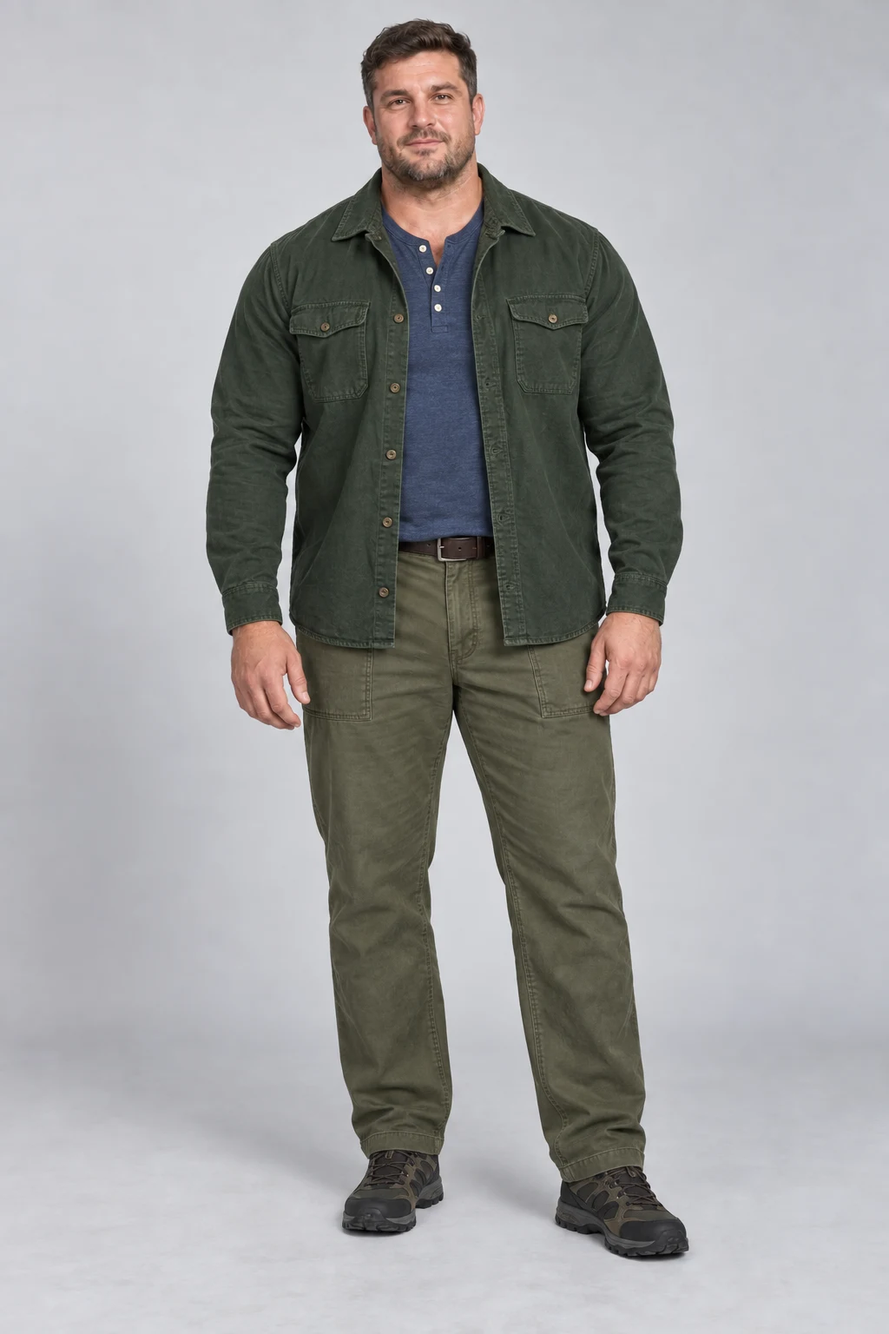
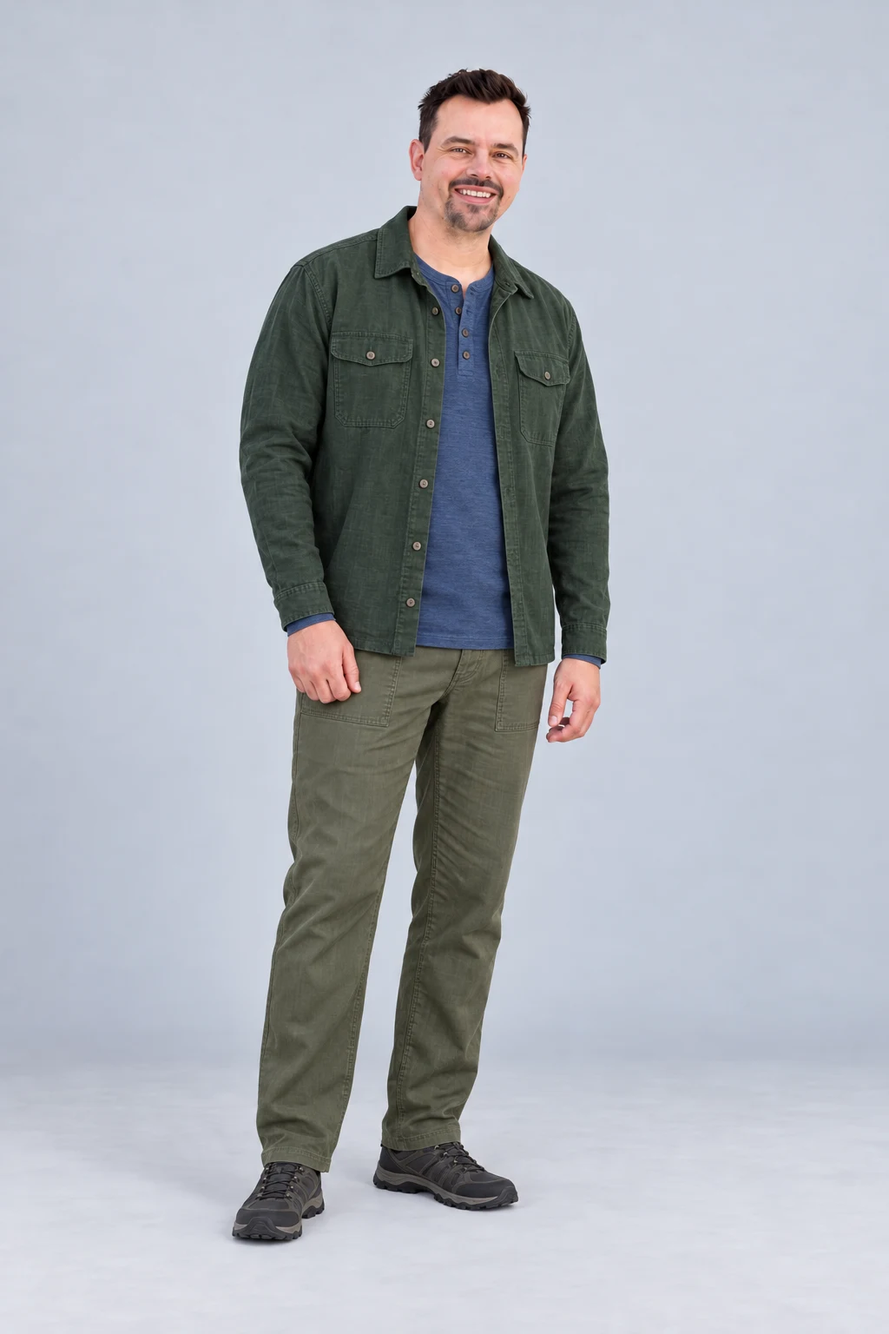
Use Konstantinos photo-based model on homepage and first seven looks

diff --git a/daywear/app.js b/daywear/app.js
@@ -1,7 +1,7 @@
-import {accountStorageKey} from './auth-policy.js?v=20261009-location';
-import {profile,pieces,looks,pieceById,lookById,seasons,label} from './data.js?v=20261009-location';
-import {fetchWeather,recommend,condition} from './weather.js?v=20261009-location';
-import {detectLocation,locationPreference,rememberCity,locationError} from './location.js?v=20261009-location';
+import {accountStorageKey} from './auth-policy.js?v=20261009-photos-7';
+import {profile,pieces,looks,pieceById,lookById,seasons,label} from './data.js?v=20261009-photos-7';
+import {fetchWeather,recommend,condition} from './weather.js?v=20261009-photos-7';
+import {detectLocation,locationPreference,rememberCity,locationError} from './location.js?v=20261009-photos-7';
 const $=s=>document.querySelector(s),esc=v=>String(v??'').replace(/[&<>"']/g,c=>({'&':'&amp;','<':'&lt;','>':'&gt;','"':'&quot;',"'":'&#39;'}[c]));
 let key=accountStorageKey(null),accountUid=null;
 let saved={};try{saved=JSON.parse(localStorage.getItem(key)||'{}')||{};}catch{}
@@ -13,7 +13,7 @@ function route(){return location.hash.slice(1)||'today';}
 function status(id){return ['owned','buy'].includes(state.ownership[id])?state.ownership[id]:'review';}
 function statusLabel(id){return {owned:'Owned',buy:'Buy',review:'To confirm'}[status(id)];}
 function fit(p){const size=p.category==='Shoes'?state.sizes.shoe:p.category==='Bottoms'?state.sizes.bottom:['Tops','Layers'].includes(p.category)?state.sizes.top:'';return size?`${size} · ${p.fit}`:p.fit;}
-function image(l,cls='look-photo'){return `<img class="${cls}" src="${l.image}" alt="AI stand-in with a broad athletic build wearing ${esc(l.name)}" loading="lazy" width="800" height="1200">`;}
+function image(l,cls='look-photo'){return `<img class="${cls}" src="${l.image}" alt="${l.photoBased?'Photo-based AI try-on':'AI stand-in'} wearing ${esc(l.name)}" loading="lazy" width="800" height="1200">`;}
 function tags(l){return `<div class="tags"><span class="tag">${{summer:'warm',fall:'mild',winter:'cold',spring:'mild',gym:'training',lounge:'at home'}[l.season]}</span>${l.rain?'<span class="tag">rain-ready</span>':''}${l.layer?'<span class="tag">layered</span>':''}</div>`;}
 function card(l){const owned=l.pieces.filter(id=>status(id)==='owned').length;return `<article class="card"><a href="#look/${l.id}">${image(l)}<div class="row-between card-meta"><span>${label(l.season)} ${String(l.number).padStart(2,'0')}</span><span>${owned} / ${l.pieces.length} owned</span></div><h3>${l.name}</h3><p class="muted">${l.pieces.map(id=>pieceById[id].name).join(' · ')}</p>${tags(l)}</a></article>`;}
 function head(eyebrow,title,aside=''){return `<div class="page-head"><div><p class="eyebrow">${eyebrow}</p><h1>${title}</h1></div>${aside}</div>`;}
@@ -25,12 +25,12 @@ function weatherStrip(){if(state.locating)return '<div class="weather" role="sta
  if(!state.location)return `<div class="callout"><p>Make this morning yours.</p><p class="caption">Use your current location or choose a travel city for live weather and one matched look.</p><div class="actions"><button data-action="current-location">Use current location</button><button data-action="location">Choose a city ↗</button></div></div>`;
  if(!state.weather)return `<div class="callout" role="status"><p>Live weather is unavailable</p><p class="caption">${esc(state.weatherError||'Please refresh the forecast.')} Browse your collection while it reconnects.</p><button data-action="refresh">Try again</button></div>`;
  const w=state.weather;return `<div class="weather"><div class="temperature">${w.temp.toFixed(1)}<sup>°C</sup><small>FEELS LIKE</small></div><div><p>${condition(w.code)}</p><p class="muted">Rain now: ${w.precip>0?'Yes':'No'} · ${w.dailyPrecip.toFixed(1)} mm today</p></div><div><p>${Math.round(w.wind)} km/h wind</p><p class="muted">High ${Math.round(w.high)}° / Low ${Math.round(w.low)}°</p></div><div class="source"><span class="live-dot"></span><a href="https://open-meteo.com/" target="_blank" rel="noreferrer">Live · Open-Meteo</a><p class="muted">${w.time.slice(11,16)} ${esc(w.timezone)}<br><button class="text-button" data-action="refresh">Refresh</button></p></div></div>`;}
-function disclosure(){return `<details class="disclosure"><summary>About your fit, photographs & assumptions</summary><ul><li>The original collection was created for Konstantinos: 191 cm, 120 kg, a developed chest and a water-polo background. We use a late-30s male stand-in; the birth date is not stored in the app.</li><li>The current catalog uses a fictional AI stand-in. A replacement based on supplied personal photos is being reviewed; these images are not yet a verified likeness or measured fit.</li><li>Style inferred from the reference: navy, forest, ecru, charcoal, olive and tobacco; a relaxed smart-casual capsule. You can change your name in your profile.</li><li>All 40 pieces begin as “To confirm”. No ownership, clothing size, budget, work dress code or exact product match is assumed. Mark owned pieces before building a shopping list.</li><li>Prioritise room across the chest, shoulders and upper arms. Confirm actual garment measurements before buying; body statistics cannot determine clothing sizes.</li><li>Inventory, profile, checklists and purge plans are saved in this browser only. Export a backup from your profile to keep a copy.</li></ul></details>`;}
+function disclosure(){return `<details class="disclosure"><summary>About your fit, photographs & assumptions</summary><ul><li>The original collection was created for Konstantinos: 191 cm, 120 kg, a developed chest and a water-polo background. The birth date is not stored in the app.</li><li>${looks.filter(l=>l.photoBased).length} of 30 looks use supplied personal photos as reference, with the requested slimmer arms and face, dark hair and dark beard. AI likeness can vary; these are styling images, not measured fittings.</li><li>Style inferred from the reference: navy, forest, ecru, charcoal, olive and tobacco; a relaxed smart-casual capsule. You can change your name in your profile.</li><li>All 40 pieces begin as “To confirm”. No ownership, clothing size, budget, work dress code or exact product match is assumed. Mark owned pieces before building a shopping list.</li><li>Prioritise room across the chest, shoulders and upper arms. Confirm actual garment measurements before buying; body statistics cannot determine clothing sizes.</li><li>Inventory, profile, checklists and purge plans are saved in this browser only. Export a backup from your profile to keep a copy.</li></ul></details>`;}
 function today(){const title=state.location?`Today in ${esc(state.location.name)}`:'Today, considered.';const date=new Intl.DateTimeFormat('en-GB',{weekday:'long',day:'numeric',month:'long',year:'numeric',timeZone:state.weather?.timezone||undefined}).format(new Date());let rec=state.weather?recommend(state.weather,options()):null;const l=rec?.look||lookById[state.mode==='everyday'?'fall-2':state.mode+'-1'];
  let swap='';if(rec){const rain=recommend({...state.weather,precip:1},options()),cool=recommend({...state.weather,temp:state.weather.temp-5},options());swap=`<div class="callout"><p class="eyebrow">${rec.wet?'IF IT DROPS 5°C':'IF RAIN STARTS'}</p><p class="caption">${state.mode==='everyday'?(rec.wet?`Switch within the collection to ${cool.look.name}.`:`${rain.look.id===l.id?'Keep':'Switch to'} ${rain.look.name}; a protective jacket and dark closed shoes cover the rain.`):(state.mode==='lounge'?'Your lounge uniform is intended for indoors.':'Keep the training uniform. Plan a dry journey to the gym.')} ${rec.layer?'The extra layer is already in your capsule.':''}</p><a href="#look/${rec.wet?cool.look.id:rain.look.id}" class="caption">View the look ↗</a></div>`;}
- return head(esc(date),title,`<div class="segments" aria-label="Day type">${['everyday','gym','lounge'].map(m=>`<button data-mode="${m}" aria-pressed="${state.mode===m}" class="${state.mode===m?'active-button':''}">${label(m)}</button>`).join('')}</div>`)+`<div class="row-between location-bar"><span class="caption">${state.locationMode==='travel'?'Travel city · '+esc(state.location?.name||''):(state.location?.source==='approximate'?'Approximate location · check the city is correct':'Current location · updates when you open the app')}</span><button class="text-button" data-action="location">Change city / travel ↗</button></div>`+locationNotice()+weatherStrip()+`<section class="hero"><div class="hero-photo">${image(l)}<span class="image-label">${label(l.season)} ${String(l.number).padStart(2,'0')} / ${String(looks.indexOf(l)+1).padStart(2,'0')} OF 30</span></div><div class="hero-copy"><p class="eyebrow">${rec?'YOUR LOOK FOR TODAY':'FROM YOUR COLLECTION'}</p><h2>${l.name}</h2>${tags(l)}<p class="rationale">${rec?rec.reason:'A considered starting point: strong blues, washed olive and easy layers. Set your city above to get a recommendation based on live weather.'}${rec?.layer?` At ${state.weather.temp.toFixed(1)}°C, add your ${pieceById[rec.layer].name.toLowerCase()}.`:''}</p>${checklist(l,rec?.layer)}<p class="caption">Your checkmarks and wardrobe choices stay on this device.</p>${swap}<div class="actions"><a class="button primary" href="#look/${l.id}">View full look</a><a class="button" href="#rotation">See rotation ↗</a></div></div></section><p class="caption" style="margin-top:15px">AI-generated stand-in · 191 cm / 120 kg body brief · Visual styling study, not a measured fitting.</p><section class="section"><div class="page-head"><h2>Your collection</h2><a href="#pieces" class="caption">30 looks / 40 pieces</a></div><div class="grid">${seasons.map((s,i)=>`<article class="card"><a href="#${s}">${image(lookById[`${s}-${i===0?1:2}`])}<div class="row-between card-meta"><span>THE ${s.toUpperCase()} COLLECTION</span><span>07 LOOKS ↗</span></div><h3>${label(s)}</h3></a></article>`).join('')}</div></section>${disclosure()}`;
+ return head(esc(date),title,`<div class="segments" aria-label="Day type">${['everyday','gym','lounge'].map(m=>`<button data-mode="${m}" aria-pressed="${state.mode===m}" class="${state.mode===m?'active-button':''}">${label(m)}</button>`).join('')}</div>`)+`<div class="row-between location-bar"><span class="caption">${state.locationMode==='travel'?'Travel city · '+esc(state.location?.name||''):(state.location?.source==='approximate'?'Approximate location · check the city is correct':'Current location · updates when you open the app')}</span><button class="text-button" data-action="location">Change city / travel ↗</button></div>`+locationNotice()+weatherStrip()+`<section class="hero"><div class="hero-photo">${image(l)}<span class="image-label">${label(l.season)} ${String(l.number).padStart(2,'0')} / ${String(looks.indexOf(l)+1).padStart(2,'0')} OF 30</span></div><div class="hero-copy"><p class="eyebrow">${rec?'YOUR LOOK FOR TODAY':'FROM YOUR COLLECTION'}</p><h2>${l.name}</h2>${tags(l)}<p class="rationale">${rec?rec.reason:'A considered starting point: strong blues, washed olive and easy layers. Set your city above to get a recommendation based on live weather.'}${rec?.layer?` At ${state.weather.temp.toFixed(1)}°C, add your ${pieceById[rec.layer].name.toLowerCase()}.`:''}</p>${checklist(l,rec?.layer)}<p class="caption">Your checkmarks and wardrobe choices stay on this device.</p>${swap}<div class="actions"><a class="button primary" href="#look/${l.id}">View full look</a><a class="button" href="#rotation">See rotation ↗</a></div></div></section><p class="caption" style="margin-top:15px">${l.photoBased?'Photo-based AI try-on':'AI-generated stand-in'} · 191 cm / 120 kg supplied brief · Visual styling study, not a measured fitting.</p><section class="section"><div class="page-head"><h2>Your collection</h2><a href="#pieces" class="caption">30 looks / 40 pieces</a></div><div class="grid">${seasons.map((s,i)=>`<article class="card"><a href="#${s}">${image(lookById[`${s}-${i===0?1:2}`])}<div class="row-between card-meta"><span>THE ${s.toUpperCase()} COLLECTION</span><span>07 LOOKS ↗</span></div><h3>${label(s)}</h3></a></article>`).join('')}</div></section>${disclosure()}`;
 }
-function collection(season){const pool=looks.filter(l=>l.season===season),count=new Set(pool.flatMap(l=>l.pieces)).size;return head(`THE ${season.toUpperCase()} COLLECTION`,label(season),`<span class="muted">${String(pool.length).padStart(2,'0')} looks · ${count} shared pieces</span>`)+(pool.length===1?`<p class="intro muted">One uniform. One less decision. ${season==='gym'?'Freedom through the shoulders, a comfortable rise and stable training shoes.':'Soft cotton, a generous fit and a quiet start to the day.'}</p>`:'')+`<div class="grid">${pool.map(card).join('')}</div><p class="caption" style="margin-top:28px">Consistent AI stand-in with your described build. All clothing and sizes remain proposals until you confirm them.</p>`;}
+function collection(season){const pool=looks.filter(l=>l.season===season),count=new Set(pool.flatMap(l=>l.pieces)).size;return head(`THE ${season.toUpperCase()} COLLECTION`,label(season),`<span class="muted">${String(pool.length).padStart(2,'0')} looks · ${count} shared pieces</span>`)+(pool.length===1?`<p class="intro muted">One uniform. One less decision. ${season==='gym'?'Freedom through the shoulders, a comfortable rise and stable training shoes.':'Soft cotton, a generous fit and a quiet start to the day.'}</p>`:'')+`<div class="grid">${pool.map(card).join('')}</div><p class="caption" style="margin-top:28px">${pool.every(l=>l.photoBased)?'Photo-based AI try-ons with the agreed body proportions.':'Personal photographs are being added to this collection.'} Clothing and sizes remain proposals until confirmed.</p>`;}
 function ownershipSelect(p){return `<select aria-label="Ownership of ${p.name}" data-own="${p.id}">${['review','owned','buy'].map(v=>`<option value="${v}" ${status(p.id)===v?'selected':''}>${{review:'To confirm',owned:'Owned',buy:'Buy'}[v]}</option>`).join('')}</select>`;}
 function piecePage(){const filtered=pieces.filter(p=>(state.filter==='All'||state.filter===p.category||state.filter.toLowerCase()===status(p.id))&&p.name.toLowerCase().includes(state.search.toLowerCase()));return head('THE COMPLETE INVENTORY','The pieces',`<span class="muted">40 pieces · ${pieces.filter(p=>status(p.id)==='owned').length} owned · ${pieces.filter(p=>status(p.id)==='review').length} to confirm</span>`)+`<div class="filter-bar">${['All','Owned','Buy','Review','Tops','Bottoms','Layers','Shoes','Extras'].map(f=>`<button data-filter="${f}" class="${state.filter===f?'active-button':''}">${f==='Review'?'To confirm':f}</button>`).join('')}<input class="search" id="piece-search" placeholder="Find a piece…" aria-label="Find a piece" value="${esc(state.search)}"></div><div class="grid">${filtered.map(p=>{const ll=looks.filter(l=>l.pieces.includes(p.id)),l=ll[0];return `<article class="card"><a href="#look/${l.id}">${image(l)}<div class="row-between card-meta"><span>${p.id} · ${p.category}</span><span>${statusLabel(p.id)}</span></div><h3>${p.name}</h3></a><p class="muted">${esc(fit(p))}</p><p class="caption">Shown in a full look · reused in ${ll.length} look${ll.length>1?'s':''}</p>${ownershipSelect(p)}</article>`;}).join('')}</div>${!filtered.length?'<div class="empty">No matching pieces. Try another filter or search.</div>':''}`;}
 function rotation(){const start=new Date(currentDate()+'T12:00:00');start.setDate(start.getDate()-((start.getDay()+6)%7)+state.offset*28);const pool=looks.filter(l=>l.season===state.season);const now=currentDate();const fmt=d=>new Intl.DateTimeFormat('en-GB',{day:'numeric',month:'short'}).format(d);let cells='';for(let i=0;i<28;i++){const d=new Date(start);d.setDate(start.getDate()+i);const iso=`${d.getFullYear()}-${String(d.getMonth()+1).padStart(2,'0')}-${String(d.getDate()).padStart(2,'0')}`,isToday=iso===now;let l=pool[(i+Math.floor(i/7))%7];if(isToday&&state.weather)l=recommend(state.weather,options({mode:'everyday',season:state.season})).look;cells+=`<div class="calendar-day ${isToday?'today':''}"><div class="row-between"><span>${fmt(d)}</span>${isToday?'<span>Today</span>':''}</div><a href="#look/${l.id}">${image(l)}<span>${label(l.season)} 0${l.number}</span><strong>${l.name}</strong></a></div>`;}
@@ -40,7 +40,7 @@ function shopping(){const ranked=pieces.filter(p=>status(p.id)==='buy').map(p=>(
 function purge(){return head('MAKE ROOM, THOUGHTFULLY','The edit',`<span class="muted">${state.purge.length} pieces under review</span>`)+`<p class="intro muted">Add items you already own that do not belong in the thirty-look system. Decide whether to sell, donate, recycle or keep reviewing. This list is a plan; it never disposes of anything.</p><form class="purge-form" id="purge-form"><input name="item" aria-label="Item to review" placeholder="e.g. The jacket I never reach for" required maxlength="100"><button class="primary">Add to review</button></form><ul class="purge-list">${state.purge.map(p=>`<li><span>${esc(p.name)}</span><select data-purge="${esc(p.id)}" aria-label="Decision for ${esc(p.name)}">${['Review','Sell','Donate','Recycle','Trash'].map(d=>`<option ${p.decision===d?'selected':''}>${d}</option>`).join('')}</select><button data-remove="${esc(p.id)}" aria-label="Remove ${esc(p.name)}">×</button></li>`).join('')}</ul>${!state.purge.length?'<div class="empty"><p>Your review list is empty. Keep what fits, works and earns its place.</p><p class="caption">No closet photos were provided, so nothing has been assigned for removal.</p></div>':''}`;}
 function render(){const r=route().split('/')[0];$('#brand').textContent='Daywear';document.title='Daywear — Your personal wardrobe';$('#location-label').textContent=state.locating?'FINDING YOUR LOCATION…':state.location?[state.location.name,state.location.country].filter(Boolean).join(', '):'CURRENT LOCATION / TRAVEL ↗';$('#nav').innerHTML=['today',...seasons,'gym','lounge','pieces','rotation','shopping','purge'].map(s=>`<a href="#${s}" ${r===s?'class="active" aria-current="page"':''}>${s==='today'?'Today':label(s)}${seasons.includes(s)?'<small>07</small>':''}</a>`).join('');$('#main').innerHTML=r==='pieces'?piecePage():r==='rotation'?rotation():r==='shopping'?shopping():r==='purge'?purge():[...seasons,'gym','lounge'].includes(r)?collection(r):r==='look'?lookPage(route().split('/')[1]):today();}
 function lookPage(id){const l=lookById[id];if(!l)return head('THE COLLECTION','Look not found')+'<a href="#today">Return to today</a>';return head(`${label(l.season)} ${String(l.number).padStart(2,'0')} / 30 LOOKS`,l.name,`<a href="#${l.season}" class="caption">← ${label(l.season)} collection</a>`)+`<section class="hero"><div class="hero-photo">${image(l)}</div><div class="hero-copy">${tags(l)}<p class="rationale">${profile.notes}</p>${checklist(l)}<p class="caption">Fit is a visual study. Check your actual measurements before buying.</p><div class="actions"><a class="button primary" href="#pieces">Review ownership</a><a class="button" href="#shopping">Shopping list ↗</a></div></div></section>${disclosure()}`;}
-function settings(){const loc=state.location;$('#modal-body').innerHTML=`<p class="eyebrow">MAKE IT YOURS</p><h2>Your wardrobe profile</h2><form id="profile-form"><label class="field">Your name<input name="name" maxlength="50" value="${esc(state.name)}" required></label><div class="form-grid"><label class="field">Top size<input name="top" placeholder="Not yet confirmed" value="${esc(state.sizes.top||'')}"></label><label class="field">Trouser size / inseam<input name="bottom" placeholder="Not yet confirmed" value="${esc(state.sizes.bottom||'')}"></label><label class="field">Shoe size + sizing system<input name="shoe" placeholder="e.g. UK 12 — only if confirmed" value="${esc(state.sizes.shoe||'')}"></label></div><button class="primary">Save profile</button></form><section class="section">${locationControls()}</section><section class="section"><h3>Your fit brief</h3><p class="form-note">191 cm · 120 kg · broad shoulders and developed chest. ${profile.notes}</p><p class="form-note">The current catalog uses a fictional stand-in. A photo-based likeness revision is being reviewed.</p></section><section class="section"><h3>Your data stays here</h3><p class="form-note">Saved in this browser. Wardrobe preferences are separate for each signed-in account on this device; cross-device sync is not enabled. Firebase manages account details and sign-in. No payments or closet uploads. BigDataCloud receives city-level device coordinates for the city name, or uses your internet connection for an approximate city when device location is unavailable. Open-Meteo receives city-level coordinates for weather. Device coordinates are not saved; travel cities stay in this browser.</p><div class="actions"><button data-action="export">Export backup</button><label class="button">Import backup<input type="file" id="import" accept="application/json" hidden></label></div></section>`;$('#modal').showModal();}
+function settings(){const loc=state.location;$('#modal-body').innerHTML=`<p class="eyebrow">MAKE IT YOURS</p><h2>Your wardrobe profile</h2><form id="profile-form"><label class="field">Your name<input name="name" maxlength="50" value="${esc(state.name)}" required></label><div class="form-grid"><label class="field">Top size<input name="top" placeholder="Not yet confirmed" value="${esc(state.sizes.top||'')}"></label><label class="field">Trouser size / inseam<input name="bottom" placeholder="Not yet confirmed" value="${esc(state.sizes.bottom||'')}"></label><label class="field">Shoe size + sizing system<input name="shoe" placeholder="e.g. UK 12 — only if confirmed" value="${esc(state.sizes.shoe||'')}"></label></div><button class="primary">Save profile</button></form><section class="section">${locationControls()}</section><section class="section"><h3>Your fit brief</h3><p class="form-note">191 cm · 120 kg · broad shoulders and developed chest. ${profile.notes}</p><p class="form-note">${looks.filter(l=>l.photoBased).length} of 30 looks now use your supplied photos and agreed body proportions. AI try-ons show styling, not exact garment fit.</p></section><section class="section"><h3>Your data stays here</h3><p class="form-note">Saved in this browser. Wardrobe preferences are separate for each signed-in account on this device; cross-device sync is not enabled. Firebase manages account details and sign-in. No payments or closet uploads. BigDataCloud receives city-level device coordinates for the city name, or uses your internet connection for an approximate city when device location is unavailable. Open-Meteo receives city-level coordinates for weather. Device coordinates are not saved; travel cities stay in this browser.</p><div class="actions"><button data-action="export">Export backup</button><label class="button">Import backup<input type="file" id="import" accept="application/json" hidden></label></div></section>`;$('#modal').showModal();}
 function locationControls(){return `<h3>Current location & travel</h3><p class="caption">${state.locationMode==='travel'?'Travel city selected: '+esc(state.location?.name):'Current location is your default.'}</p><button class="primary" data-action="current-location">Use current location</button><p class="caption">Allow browser location access for a more accurate result. If it is blocked or unavailable, we try an approximate city automatically. BigDataCloud resolves your city from device coordinates or, if unavailable, your internet connection. Open-Meteo receives city-level coordinates for weather.</p>${state.locationError?'<p role="status">'+esc(state.locationError)+'</p>':''}<h3 style="margin-top:24px">Choose a city / travel</h3><p class="caption">Search any city, then select the right result. Its local weather stays selected until you switch back. This shows today’s weather, not a forecast for a future trip.</p><form id="city-form" class="purge-form"><input name="city" placeholder="Search a city, e.g. Paris" minlength="2" required aria-label="City name"><button>Find city</button></form><div id="city-results" aria-live="polite"></div>${state.travelCities.length?'<p class="eyebrow">RECENT TRAVEL CITIES</p>'+state.travelCities.map((c,i)=>'<button class="city-result" data-travel="'+i+'">'+esc([c.name,c.admin1,c.country].filter(Boolean).join(' · '))+'</button>').join(''):''}`;}
 function locationSettings(){ $('#modal-body').innerHTML='<p class="eyebrow">DRESS FOR WHERE YOU ARE</p><h2>Your weather location</h2>'+locationControls();if(!$('#modal').open)$('#modal').showModal(); }
 function chooseTravel(city){if(!city)return;++locationRequest;state.locating=false;state.locationError=null;state.locationMode='travel';state.location=city;state.travelCities=rememberCity(state.travelCities,city);persist();$('#modal').close();refresh();}

diff --git a/daywear/data.js b/daywear/data.js
@@ -1,3 +1,4 @@
+const photoBasedLooks=new Set(["fall-2","summer-1","summer-2","summer-3","summer-4","summer-5","summer-6"]);
 export const profile = {name:'Konstantinos',height:191,weight:120,notes:'Tall, broad through the chest and shoulders, with naturally proportioned slimmer arms and a natural waist. Allow comfortable room through the chest and abdomen. Height and weight are self-reported; chest, waist and inseam need actual measurements.'};
 const rows = [
 ['White heavyweight T-shirt','Tops','white'],['Navy heavyweight T-shirt','Tops','navy'],['Forest linen camp shirt','Tops','forest'],['Ecru linen shirt','Tops','ecru'],['Blue long-sleeve Henley','Tops','blue'],['Chocolate merino polo','Tops','chocolate'],['Grey merino crewneck','Tops','grey'],['Navy merino crewneck','Tops','navy'],['Oatmeal chunky knit','Tops','oatmeal'],['Charcoal thermal top','Tops','charcoal'],['Stone cotton chinos','Bottoms','stone'],['Navy linen trousers','Bottoms','navy'],['Olive fatigue trousers','Bottoms','olive'],['Tobacco corduroy trousers','Bottoms','tobacco'],['Dark indigo straight jeans','Bottoms','indigo'],['Light straight-leg jeans','Bottoms','light blue'],['Charcoal wool trousers','Bottoms','charcoal'],['Navy tailored shorts','Bottoms','navy'],['White leather trainers','Shoes','white'],['Dark waterproof trainers','Shoes','charcoal'],['Black Chelsea boots','Shoes','black'],['Brown leather loafers','Shoes','brown'],['Black waterproof walking boots','Shoes','black'],['Navy lightweight rain shell','Layers','navy'],['Navy zip jacket','Layers','navy'],['Forest cotton overshirt','Layers','forest'],['Oxblood work jacket','Layers','oxblood'],['Olive insulated waterproof field jacket','Layers','olive'],['Navy wool overcoat','Layers','navy'],['Charcoal wool scarf','Extras','charcoal'],['Black merino beanie','Extras','black'],['Stone linen shorts','Bottoms','stone'],['Grey sweatshirt','Tops','grey'],['Black leather belt','Extras','black'],['Black technical T-shirt','Tops','black'],['Black training shorts','Bottoms','black'],['Black training shoes','Shoes','black'],['Oatmeal lounge T-shirt','Tops','oatmeal'],['Charcoal lounge joggers','Bottoms','charcoal'],['Charcoal house slippers','Shoes','charcoal']
@@ -12,7 +13,7 @@ gym:[['The training uniform',[35,36,37]]],
 lounge:[['Slow mornings',[38,39,40]]]
 };
 export const seasons=['summer','fall','winter','spring'];
-export const looks=Object.entries(sets).flatMap(([season,items])=>items.map(([name,ids],i)=>({id:`${season}-${i+1}`,season,number:i+1,name,pieces:ids.map(n=>`P${String(n).padStart(2,'0')}`),image:`assets/${season}-${i+1}.webp`,rain:ids.some(n=>[24,28].includes(n))&&ids.some(n=>[20,23].includes(n)),layer:ids.some(n=>n>=24&&n<=29),midlayer:ids.some(n=>[7,8,9,26,27,33].includes(n))})));
+export const looks=Object.entries(sets).flatMap(([season,items])=>items.map(([name,ids],i)=>({id:`${season}-${i+1}`,season,photoBased:photoBasedLooks.has(`${season}-${i+1}`),number:i+1,name,pieces:ids.map(n=>`P${String(n).padStart(2,'0')}`),image:`assets/${season}-${i+1}.webp?v=photo-v2`,rain:ids.some(n=>[24,28].includes(n))&&ids.some(n=>[20,23].includes(n)),layer:ids.some(n=>n>=24&&n<=29),midlayer:ids.some(n=>[7,8,9,26,27,33].includes(n))})));
 export const pieceById=Object.fromEntries(pieces.map(p=>[p.id,p]));
 export const lookById=Object.fromEntries(looks.map(l=>[l.id,l]));
 export const label=s=>s.charAt(0).toUpperCase()+s.slice(1);

diff --git a/daywear/index.html b/daywear/index.html
@@ -1,3 +1,3 @@
 <!doctype html>
-<html lang="en"><head><meta charset="UTF-8"><meta name="viewport" content="width=device-width,initial-scale=1"><meta name="theme-color" content="#ffffff"><meta name="description" content="Thirty considered looks. One personal wardrobe. Dress for the day with live weather, a shared capsule and a simple rotation."><title>Daywear — Your personal wardrobe</title><link rel="canonical" href="https://www.stouras.com/daywear/"><link rel="stylesheet" href="styles.css?v=20261009-location"></head>
-<body><a class="skip" href="#main">Skip to content</a><header><a class="wordmark" href="#today"><span id="brand">Daywear</span><small>YOUR EVERYDAY, CONSIDERED</small></a><div class="header-actions"><button id="account-button" class="account-button">Sign in / Register</button><button class="location-button" data-action="location"><span id="location-label">SET YOUR CITY ↗</span><small>30 looks. One wardrobe.</small></button></div></header><nav aria-label="Main navigation" id="nav"></nav><main id="main" tabindex="-1"></main><footer><span>Fewer decisions. Better days.</span><span>30 looks / 40 pieces</span><button class="text-button" data-action="settings">Your profile & data ↗</button></footer><dialog id="modal"><button class="close" aria-label="Close dialog" data-action="close">×</button><div id="modal-body"></div></dialog><div id="toast" role="status" aria-live="polite"></div><script type="module" src="app.js?v=20261009-location"></script><script type="module" src="auth.js?v=20261009-location"></script></body></html>
+<html lang="en"><head><meta charset="UTF-8"><meta name="viewport" content="width=device-width,initial-scale=1"><meta name="theme-color" content="#ffffff"><meta name="description" content="Thirty considered looks. One personal wardrobe. Dress for the day with live weather, a shared capsule and a simple rotation."><title>Daywear — Your personal wardrobe</title><link rel="canonical" href="https://www.stouras.com/daywear/"><link rel="stylesheet" href="styles.css?v=20261009-photos-7"></head>
+<body><a class="skip" href="#main">Skip to content</a><header><a class="wordmark" href="#today"><span id="brand">Daywear</span><small>YOUR EVERYDAY, CONSIDERED</small></a><div class="header-actions"><button id="account-button" class="account-button">Sign in / Register</button><button class="location-button" data-action="location"><span id="location-label">SET YOUR CITY ↗</span><small>30 looks. One wardrobe.</small></button></div></header><nav aria-label="Main navigation" id="nav"></nav><main id="main" tabindex="-1"></main><footer><span>Fewer decisions. Better days.</span><span>30 looks / 40 pieces</span><button class="text-button" data-action="settings">Your profile & data ↗</button></footer><dialog id="modal"><button class="close" aria-label="Close dialog" data-action="close">×</button><div id="modal-body"></div></dialog><div id="toast" role="status" aria-live="polite"></div><script type="module" src="app.js?v=20261009-photos-7"></script><script type="module" src="auth.js?v=20261009-photos-7"></script></body></html>

diff --git a/daywear/auth.js b/daywear/auth.js
@@ -1,5 +1,5 @@
-import {firebaseConfig,enabledProviders} from './firebase-config.js?v=20261009-location';
-import {passwordProblem,authMessage} from './auth-policy.js?v=20261009-location';
+import {firebaseConfig,enabledProviders} from './firebase-config.js?v=20261009-photos-7';
+import {passwordProblem,authMessage} from './auth-policy.js?v=20261009-photos-7';
 
 const esc=v=>String(v??'').replace(/[&<>"']/g,c=>({'&':'&amp;','<':'&lt;','>':'&gt;','"':'&quot;',"'":'&#39;'}[c]));
 let sdk,auth,user=null,ready=false,initializationError=false,busy=false,view='signin',notice='';

diff --git a/daywear/weather.js b/daywear/weather.js
@@ -1,4 +1,4 @@
-import {looks} from './data.js?v=20261009-location';
+import {looks} from './data.js?v=20261009-photos-7';
 export function seasonPool(temp,month,latitude=51){
  if(!Number.isFinite(temp))throw new Error('A valid apparent temperature is required');
  const m=latitude<0?(month+5)%12+1:month;
